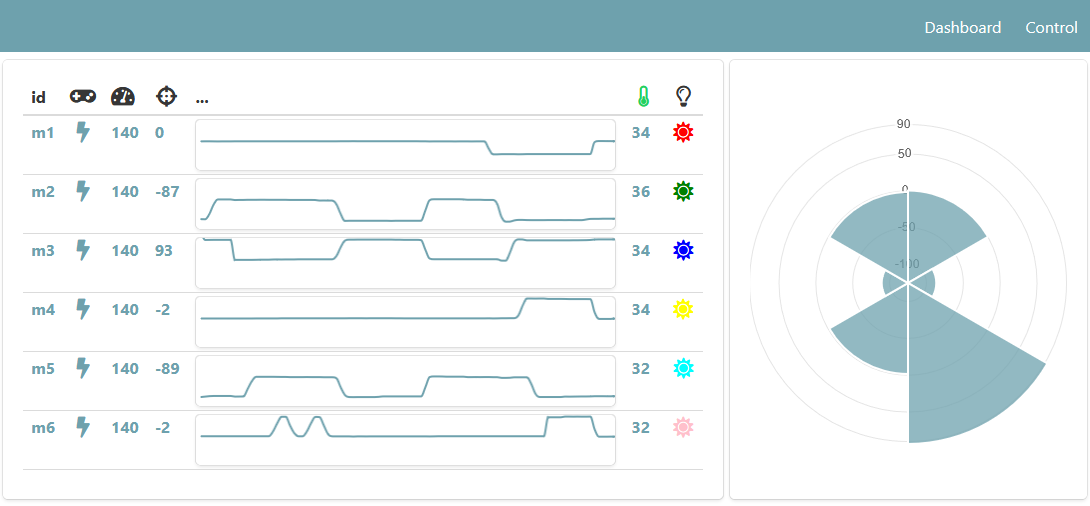
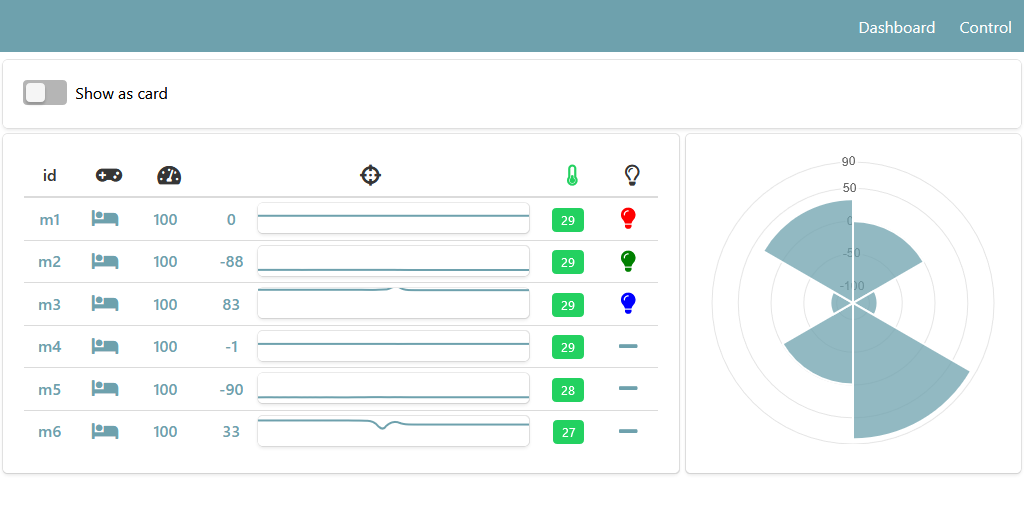
Documentation update

diff --git a/README.md b/README.md
@@ -7,12 +7,42 @@
 
 A quick'n'-not-so-dirty responsive dashboard/control panel for Poppy/Poppy Ergo Jr Robot based on Vue.js and the [poppy-robot-core](https://github.com/nbarikipoulos/poppy-robot-core#readme) module.
 
+It allows:
+- Displaying register of interest of motors of a Poppy robot (at least a Poppy Ergo Jr.),
+- Controling each motor positions via a simple UI.
+
+Below screenshots for mobile.
+
+Dashboard | Control
+--- | ---
+![dashboard](./doc/dashboard-mobile.png "Dashboard (rendering on mobile)") | ![motor control](./doc/control-mobile.png "Motor control (rendering on mobile)")
+
+<!-- toc -->
+
+- [Screenshots](#screenshots)
+  * [Dashboard](#dashboard)
+    + [Default View](#default-view)
+    + [View Split per Motor](#view-split-per-motor)
+- [Install](#install)
+  * [Build Project](#build-project)
+  * [Serve Build](#serve-build)
+- [Credits](#credits)
+- [License](#license)
+
+<!-- tocstop -->
+
+## Screenshots
+
+### Dashboard
+
+#### Default View
 
 ![dashboard](./doc/dashboard-wide.png "Dashboard (rendering on 'wide screen')")
 
-Control | Dashboard
---- | ---
-![motor control](./doc/control-mobile.png "Motor control (rendering on mobile)") | ![dashboard](./doc/dashboard-mobile.png "Dashboard (rendering on mobile)")
+#### View Split per Motor
+
+![dashboard](./doc/dashboard-card-wide.png "Dashboard (rendering motor as card on 'wide screen')")
+
 
 ## Install
 
@@ -33,7 +63,9 @@ npm install
 npm run build // Compiles and minifies for production in dist/
 ```
 
-And then serve it with any http server (below with the serve npm package):
+### Serve Build
+
+Just serve the dist folder with any http server (below with the serve npm package included with this project):
 ```shell
 npm run serve-dist
 ┌──────────────────────────────────────────────────┐
